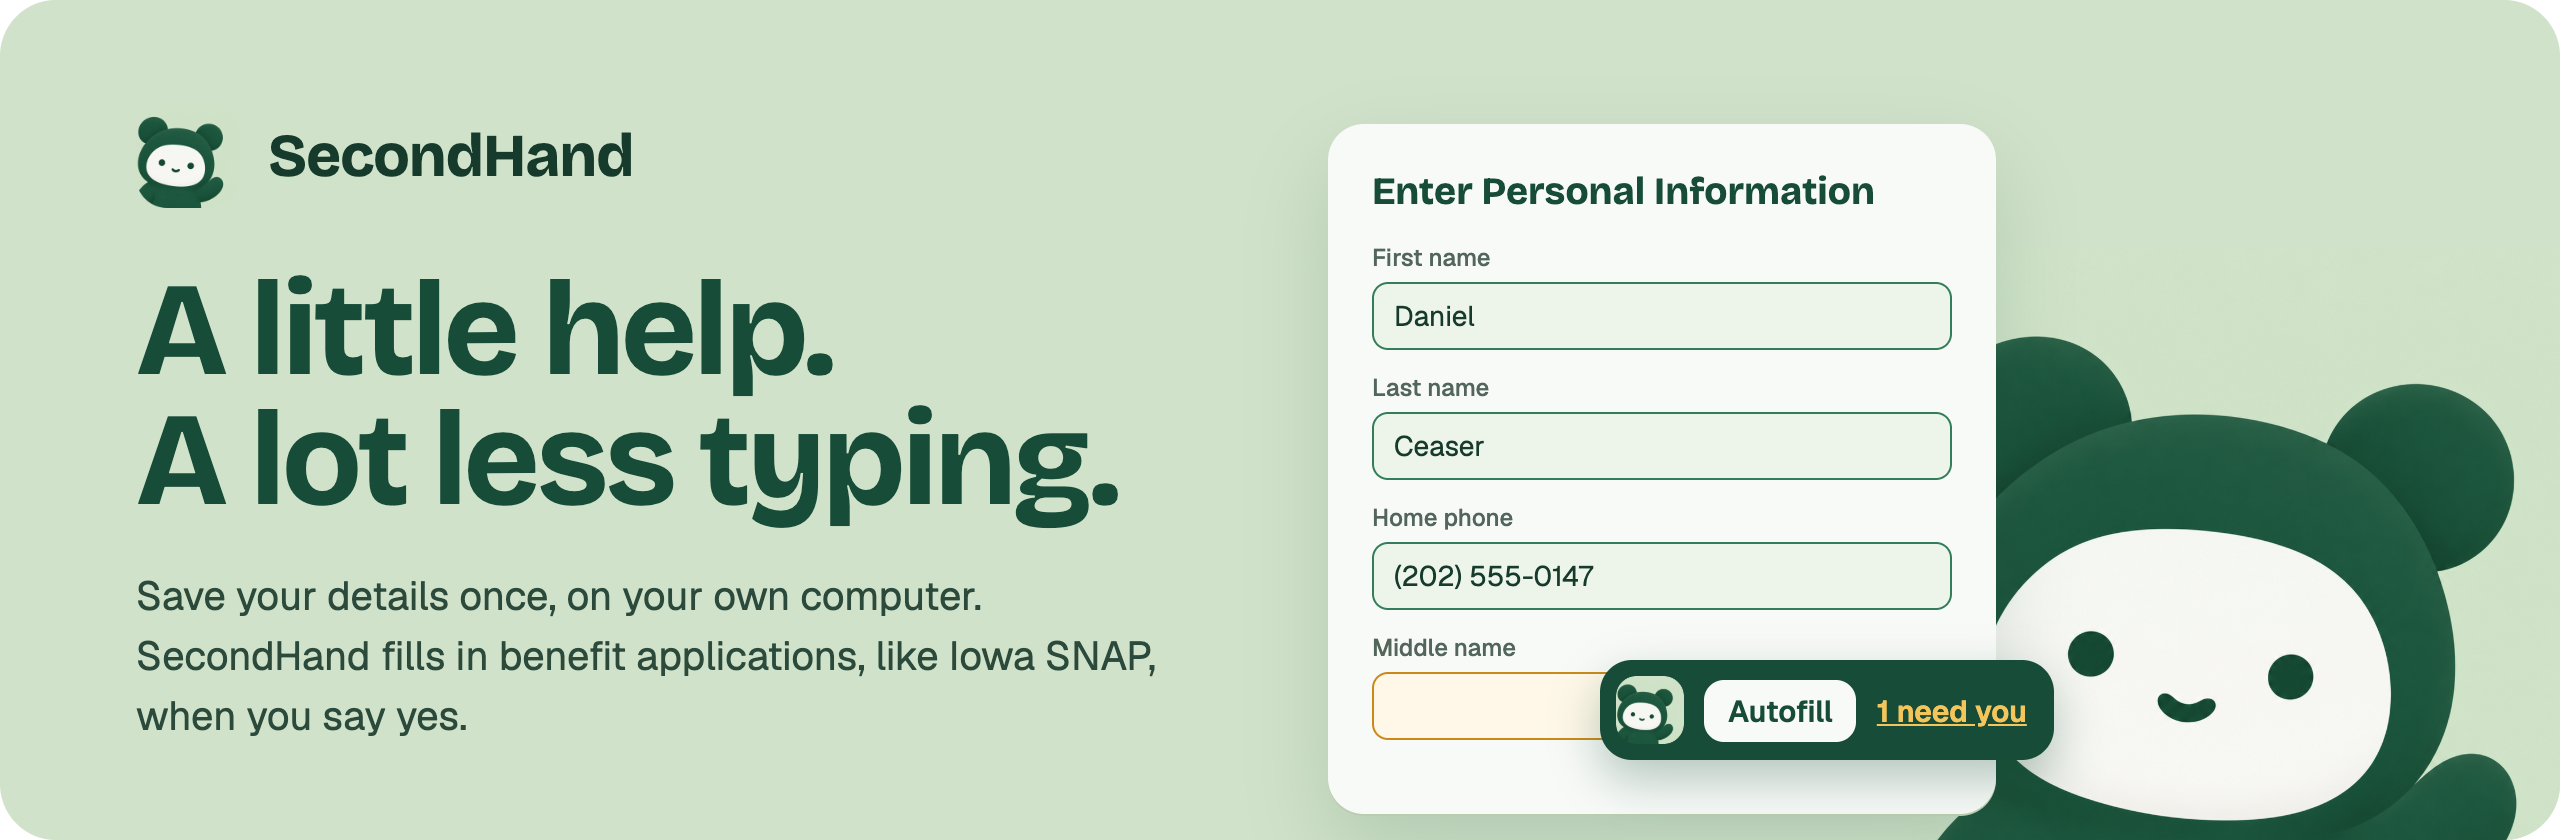
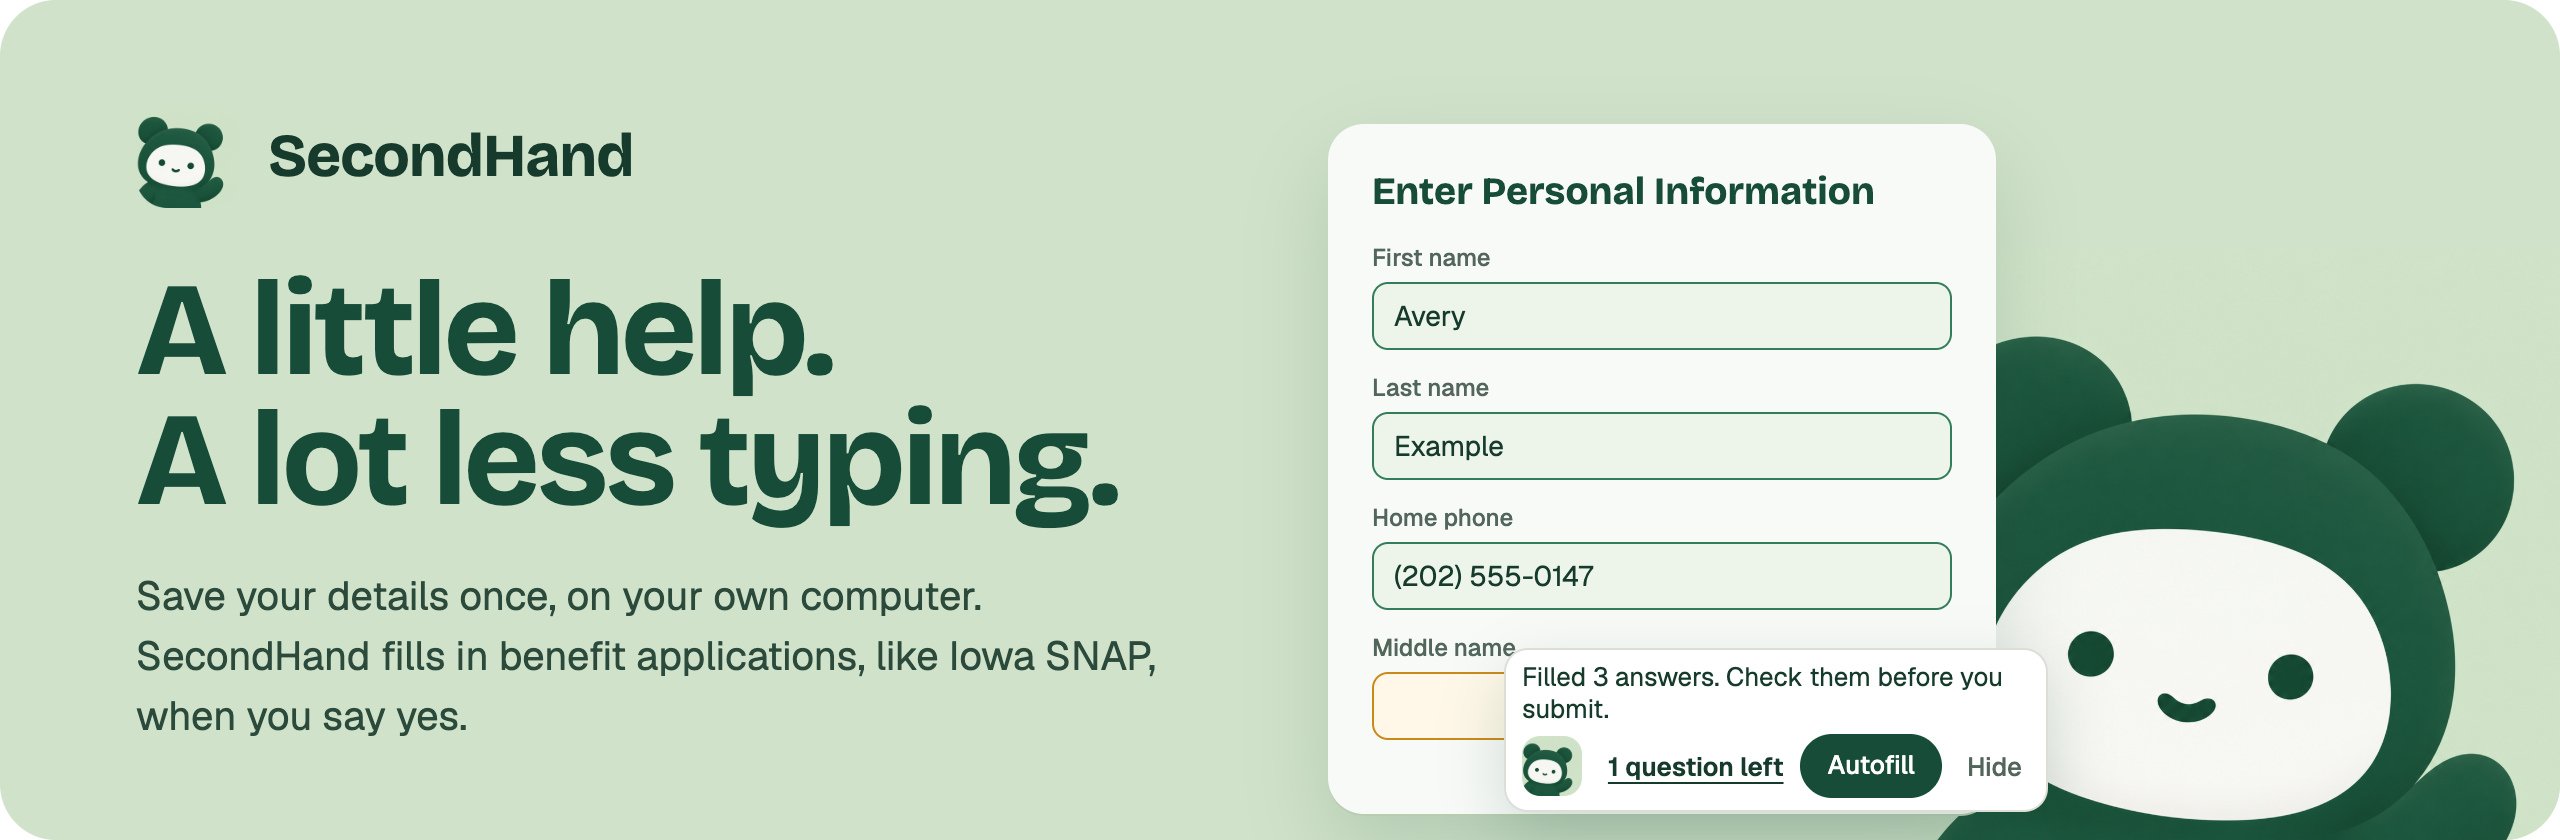
docs: show the redesigned card and side panel in the README
The README's animation and side panel picture showed an earlier draft of
the card, and its banner drew the old dark card with "1 need you". They are
retaken from the extension as it is now, with the fictional applicant Avery
Example: the animation ends with Avery typed and Save and Continue clicked
once the cursor leaves the box, and the banner's card is the real card at
its real size. The descriptions and the "Finish what's left" step say so.

Changed region(s): [[0.5938, 0.7738, 0.8125, 0.9905], [0.5312, 0.5262, 0.5938, 0.5571], [0.5312, 0.3714, 0.5938, 0.4024]]

diff --git a/README.md b/README.md
@@ -1,5 +1,5 @@
 <p align="center">
-  <img src="docs/media/readme-banner.png" width="100%" alt="SecondHand. A little help. A lot less typing. Save your details once, on your own computer. SecondHand fills in benefit applications, like Iowa SNAP, when you say yes. Beside the words, a form called Enter Personal Information has its first name, last name, and phone filled in green, and the SecondHand card under it shows Autofill and 1 need you.">
+  <img src="docs/media/readme-banner.png" width="100%" alt="SecondHand. A little help. A lot less typing. Save your details once, on your own computer. SecondHand fills in benefit applications, like Iowa SNAP, when you say yes. Beside the words, a form called Enter Personal Information has Avery Example's first name, last name, and phone filled in green and the middle name empty, and the SecondHand card in its corner says Filled 3 answers. Check them before you submit., above a 1 question left link, an Autofill button, and Hide.">
 </p>
 
 <h1 align="center">SecondHand</h1>
@@ -54,7 +54,7 @@ It comes in two parts that work together:
 Think of it like a password manager, but for the questions every assistance form asks. Nothing goes to a SecondHand server, because there isn't one. You stay in charge: the app asks before it shares anything, and you always review, sign, and submit yourself.
 
 <p align="center">
-  <img src="docs/media/autofill.gif" width="880" alt="The SecondHand card in the corner of Iowa's application. A click on Autofill fills the saved answers, a '1 question left' link appears, and clicking it jumps to the empty First Name field, where Daniel is typed. The page is then complete, so SecondHand clicks Save and Continue.">
+  <img src="docs/media/autofill.gif" width="880" alt="The SecondHand card in the corner of Iowa's application. A click on Autofill fills the saved answers, a '1 question left' link appears, and clicking it jumps to the empty First Name field, where Avery is typed. Once the cursor leaves that box, SecondHand clicks Save and Continue.">
   <br>
   <sub>A fictional applicant on a synthetic copy of Iowa's form. Nothing is sent anywhere.</sub>
 </p>
@@ -112,9 +112,9 @@ SecondHand was built for **Hack Away Hunger**, the DSMHack / CharityHack 2026 ha
 
 **2. Click Autofill on the application.** Open Iowa's SNAP application in Chrome and click **Autofill** in the SecondHand card. The app asks first: **Allow once**, or **Always allow on this computer**.
 
-**3. Finish what's left, then submit it yourself.** The card says what Autofill did, and a **1 question left** link jumps to each missing answer. Chrome's side panel lists every question on the page as **Done**, **Needs your answer**, **Optional**, or **Do it yourself**.
+**3. Finish what's left, then submit it yourself.** The card says what Autofill did, and a **1 question left** link jumps to each missing answer. Once nothing is left and you leave the box you typed in, SecondHand clicks **Save and Continue**. Chrome's side panel lists every question on the page as **Done**, **Needs your answer**, **Optional**, or **Do it yourself**.
 
-<img src="docs/media/side-panel.png" alt="Iowa's Enter Personal Information page with Last Name filled and First Name empty, the SecondHand card showing Stop and 1 question left, and the side panel checklist marking First name as having no saved answer to type in Iowa's form, and Last name as Done" width="100%">
+<img src="docs/media/side-panel.png" alt="Iowa's Enter Personal Information page with First Name empty and the rest filled for the fictional applicant Avery Example, the SecondHand card showing Stop and 1 question left, and the side panel saying Filled 20 answers, 1 left for you, with First name marked No saved answer: type it in Iowa's form, and Middle name, Last name, Suffix, and Maiden name marked Done" width="100%">
 
 ## What it does today
 
